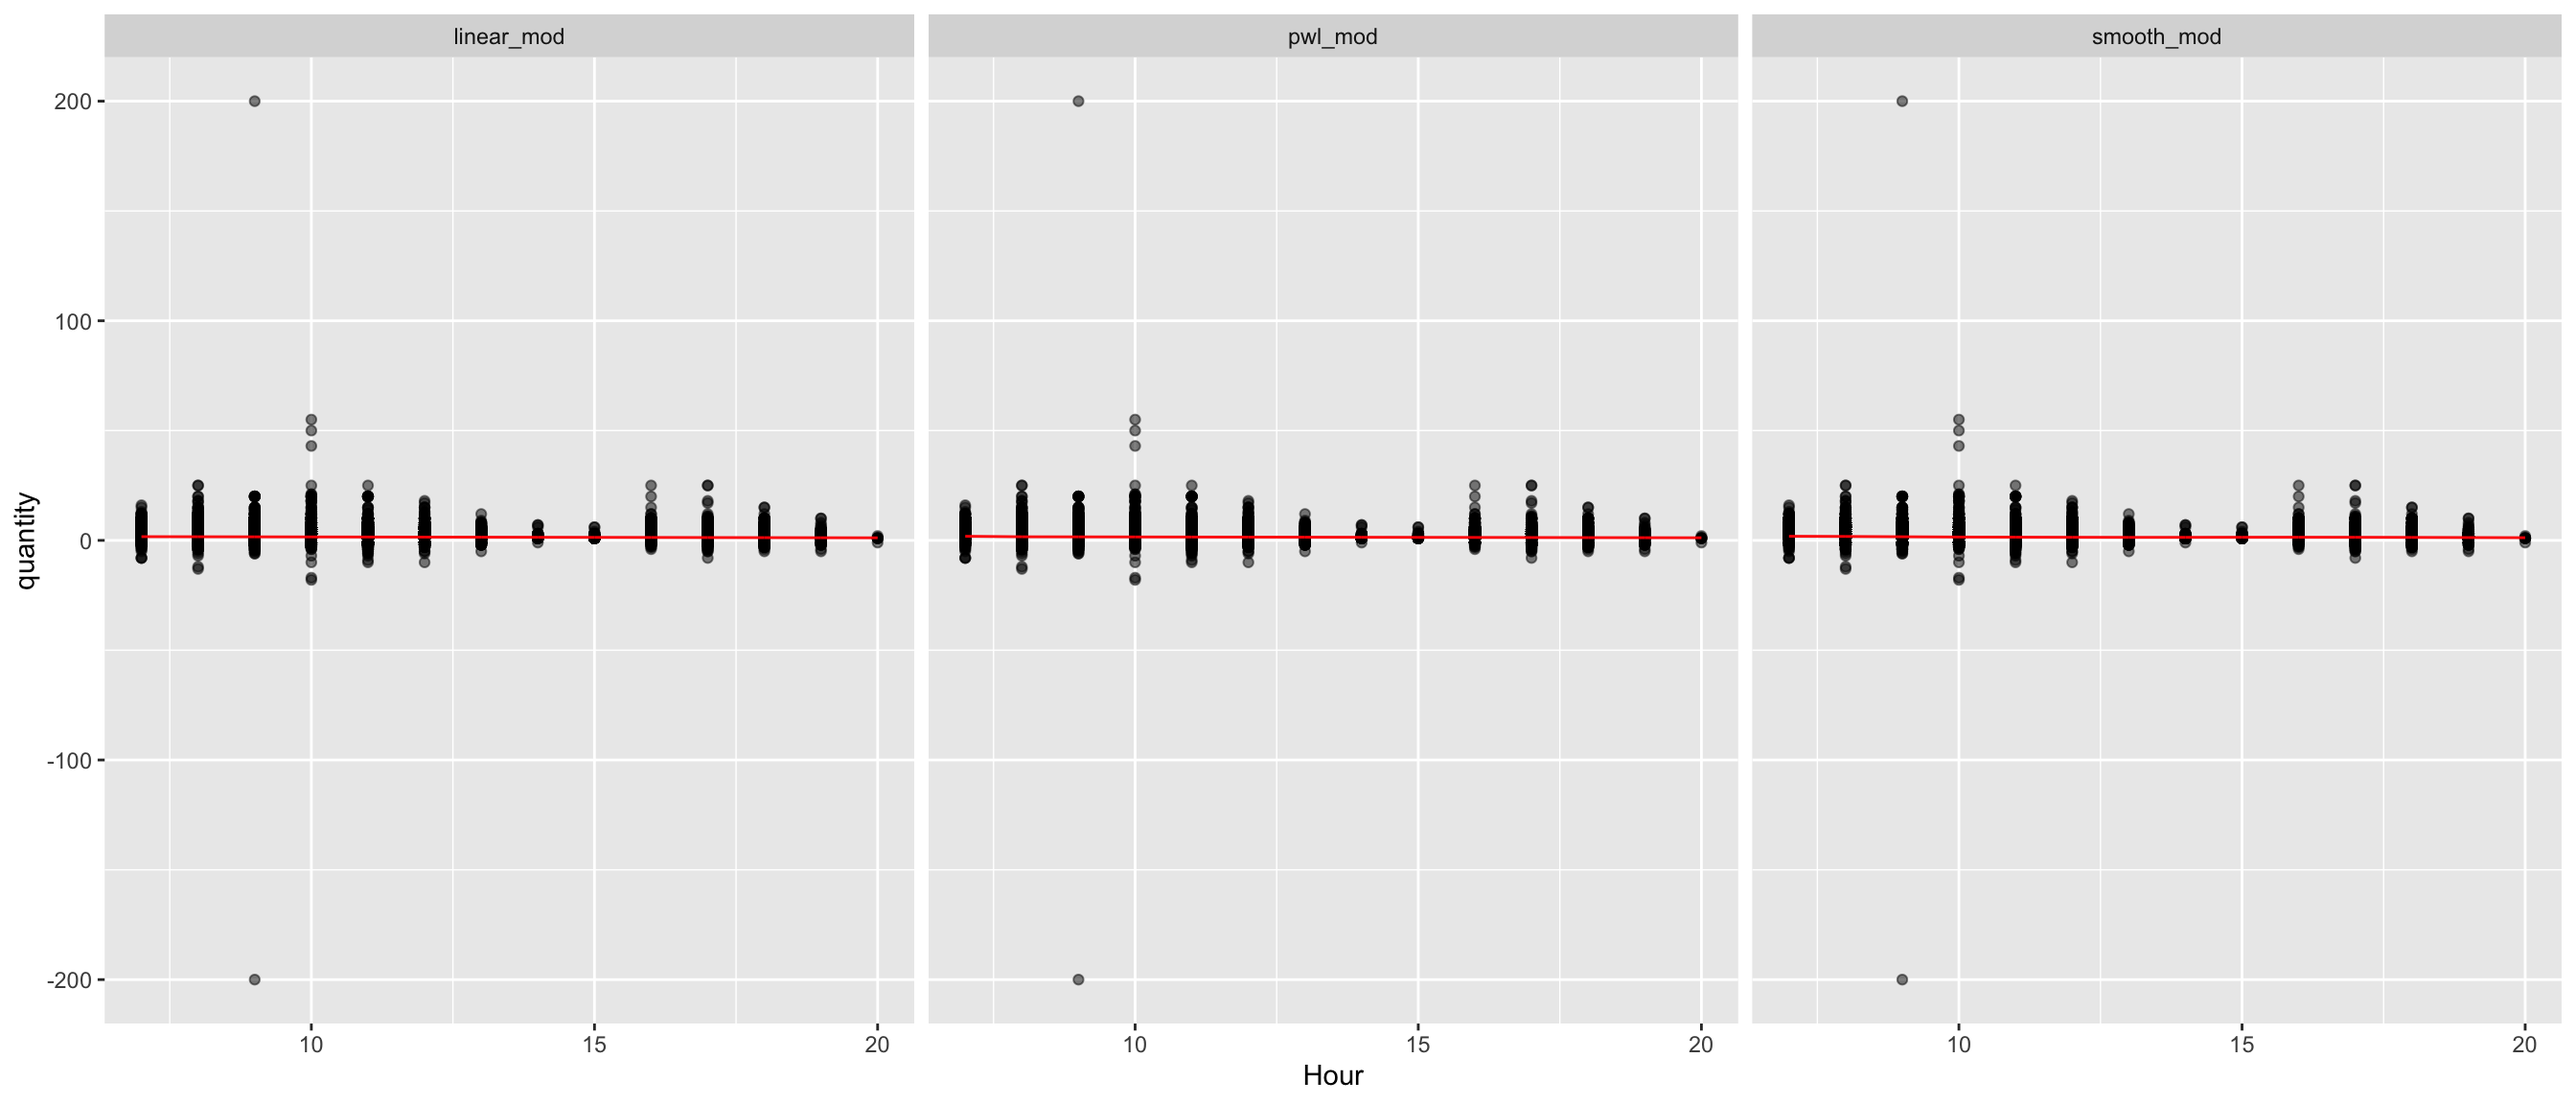
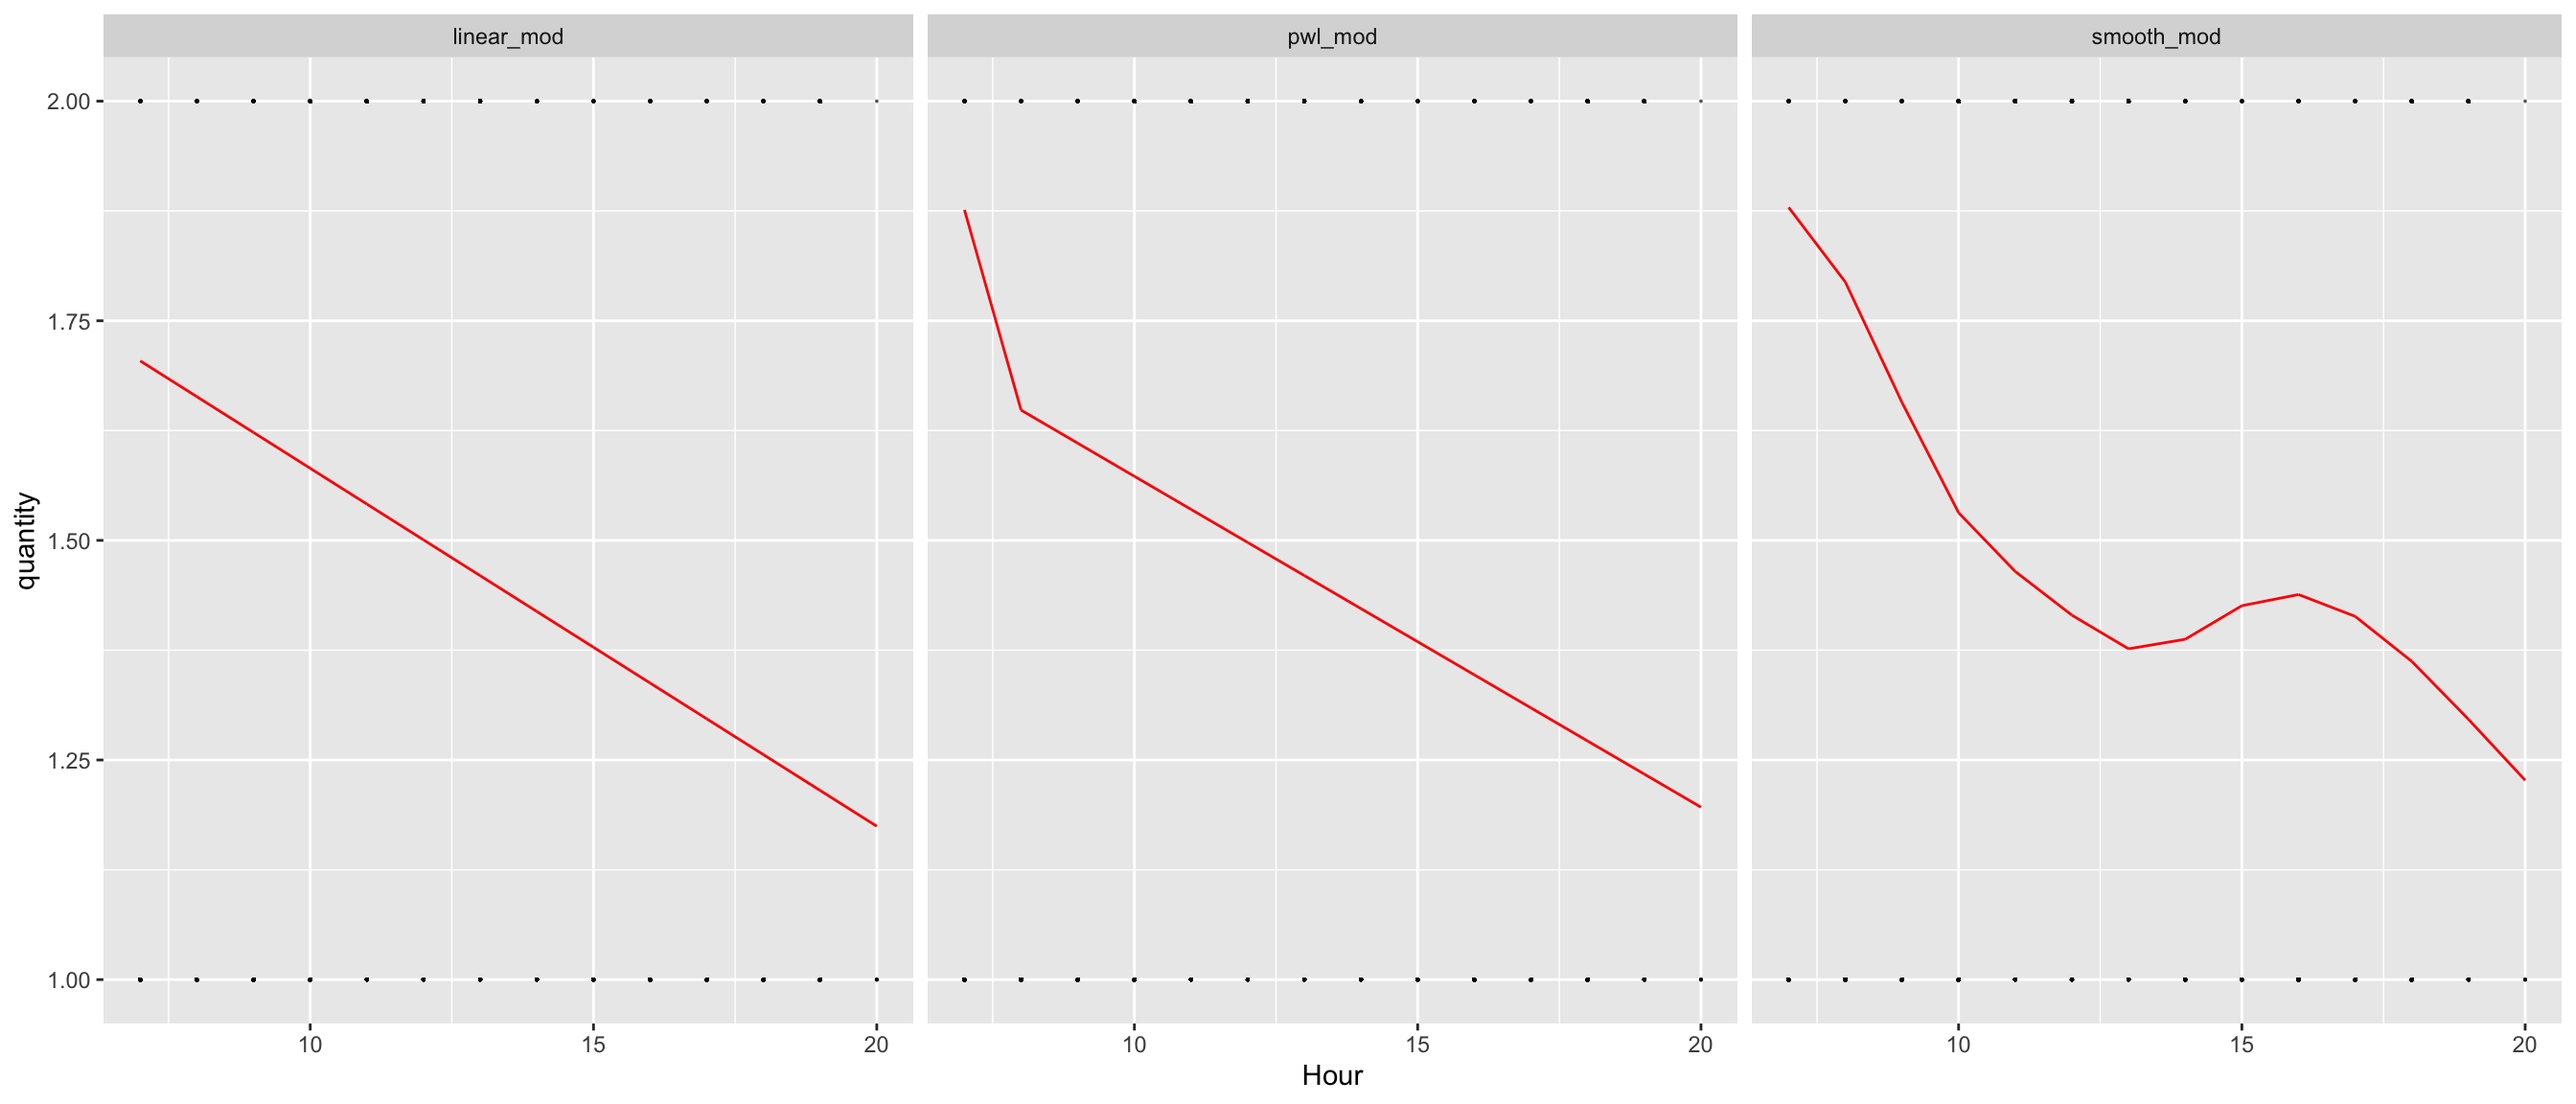
slightly changed the code and changed the graphs

diff --git a/statistical_analyses.html b/statistical_analyses.html
@@ -13,7 +13,7 @@
 
 <title>Statistical Analyses</title>
 
-<script src="site_libs/header-attrs-2.16/header-attrs.js"></script>
+<script src="site_libs/header-attrs-2.18/header-attrs.js"></script>
 <script src="site_libs/jquery-3.6.0/jquery-3.6.0.min.js"></script>
 <meta name="viewport" content="width=device-width, initial-scale=1" />
 <link href="site_libs/bootstrap-3.3.5/css/sandstone.min.css" rel="stylesheet" />
@@ -184,8 +184,8 @@ $(document).ready(function () {
   border-radius: 4px;
 }
 
-.tabset-dropdown > .nav-tabs > li.active:before {
-  content: "";
+.tabset-dropdown > .nav-tabs > li.active:before, .tabset-dropdown > .nav-tabs.nav-tabs-open:before {
+  content: "\e259";
   font-family: 'Glyphicons Halflings';
   display: inline-block;
   padding: 10px;
@@ -193,16 +193,9 @@ $(document).ready(function () {
 }
 
 .tabset-dropdown > .nav-tabs.nav-tabs-open > li.active:before {
-  content: "&#xe258;";
-  border: none;
-}
-
-.tabset-dropdown > .nav-tabs.nav-tabs-open:before {
-  content: "";
+  content: "\e258";
   font-family: 'Glyphicons Halflings';
-  display: inline-block;
-  padding: 10px;
-  border-right: 1px solid #ddd;
+  border: none;
 }
 
 .tabset-dropdown > .nav-tabs > li.active {
@@ -396,8 +389,11 @@ library(plotly)
 library(mgcv)
 library(moments)
 library(modelr)</code></pre>
-<p>Data input and cleaning</p>
-<pre class="r"><code>bakery_df =
+<div id="summary-of-packages" class="section level2">
+<h2>Summary of packages</h2>
+<p>tidyverse, lubridate, plotly, mgcv, moments, modelr</p>
+<pre class="r"><code># Data input and cleaning 
+bakery_df =
   read_csv(&quot;./Data/Bakery_sales.csv&quot;) %&gt;% 
   janitor::clean_names() %&gt;% 
   mutate(
@@ -409,8 +405,9 @@ library(modelr)</code></pre>
     ) %&gt;% 
   filter(product_name != &quot;.&quot;) %&gt;% 
   select(-article)</code></pre>
-<div id="anova" class="section level3">
-<h3>ANOVA</h3>
+</div>
+<div id="anova" class="section level2">
+<h2>ANOVA</h2>
 <p>ANOVA tests whether there is a difference in means of the groups at
 each level (each individual month) of the independent variable of peak
 months (Jun - Sep).</p>
@@ -451,21 +448,54 @@ anova_test_df =
   left_join(one_sales, two_sales, by = c(&quot;ID&quot;))
 
 
-one.way &lt;- aov(one_sales ~ two_sales, data = anova_test_df)
+one.way &lt;- aov(one_sales ~ two_sales, data = anova_test_df) %&gt;% 
+  broom::tidy() %&gt;% 
+  knitr::kable(digits = 2) 
 
-summary(one.way)</code></pre>
-<pre><code>##             Df   Sum Sq  Mean Sq F value  Pr(&gt;F)   
-## two_sales    1 74405983 74405983   196.6 0.00505 **
-## Residuals    2   756817   378409                   
-## ---
-## Signif. codes:  0 &#39;***&#39; 0.001 &#39;**&#39; 0.01 &#39;*&#39; 0.05 &#39;.&#39; 0.1 &#39; &#39; 1</code></pre>
-<p>The ANOVA test p-value is 0.00505 which is less than alpha level of
+one.way</code></pre>
+<table>
+<thead>
+<tr class="header">
+<th align="left">term</th>
+<th align="right">df</th>
+<th align="right">sumsq</th>
+<th align="right">meansq</th>
+<th align="right">statistic</th>
+<th align="right">p.value</th>
+</tr>
+</thead>
+<tbody>
+<tr class="odd">
+<td align="left">two_sales</td>
+<td align="right">1</td>
+<td align="right">74405982.9</td>
+<td align="right">74405982.9</td>
+<td align="right">196.63</td>
+<td align="right">0.01</td>
+</tr>
+<tr class="even">
+<td align="left">Residuals</td>
+<td align="right">2</td>
+<td align="right">756817.1</td>
+<td align="right">378408.5</td>
+<td align="right">NA</td>
+<td align="right">NA</td>
+</tr>
+</tbody>
+</table>
+<p>The ANOVA test p-value is 0.01 which is less than alpha level of
 0.05, so we reject the null hypothesis and conclude that the mean sales
 of peak months in 2021 is statistically significantly different from the
 mean sales of peak months in 2022.</p>
+<p>
+ 
+</p >
 </div>
-<div id="generalized-additive-model" class="section level3">
-<h3>Generalized Additive Model</h3>
+<div id="simple-linear-regression" class="section level2">
+<h2>Simple Linear Regression</h2>
+<p>We conduct a simple linear regression for croissant’s sale counts and
+when it’s being sold (hour of the day) and test the model using
+<code>Cross Validation</code>.</p>
 <p>Find the <em>rush hours</em> of a typical day:</p>
 <pre class="r"><code>bakery_df = 
   bakery_df %&gt;% 
@@ -507,49 +537,68 @@ function from 7 AM to 11 AM.</p>
 <p><img src="statistical_analyses_files/figure-html/unnamed-chunk-3-1.png" width="90%" /></p>
 <p>It looks like a monotonic linear relationship that we can take a
 further look at using simple linear regression model.</p>
-</div>
-<div
-id="simple-linear-regression-for-croissants-sale-counts-and-when-its-being-sold-hour-of-the-day-and-test-the-model-using-cross-validation"
-class="section level3">
-<h3>Simple Linear Regression for croissant’s sale counts and when it’s
-being sold (hour of the day) and test the model using Cross
-Validation</h3>
 <pre class="r"><code>slr_df = 
   bakery_df  %&gt;% 
   mutate(
-    hour_cp = (Hour &gt; 8) * (Hour - 8)
-    )
+    hour_cp = (Hour &gt; 8) * (Hour - 8))
 
-ggplot(slr_df, aes(x = Hour, y = quantity)) +
-  geom_point() + scale_x_continuous(breaks = seq(7, 11), limit = c(7, 11)) +
-  scale_y_continuous(limit = c(0,50)) </code></pre>
-<p><img src="statistical_analyses_files/figure-html/unnamed-chunk-4-1.png" width="90%" /></p>
-<pre class="r"><code>slr_reg = lm(quantity ~ Hour, slr_df)
+slr_reg = lm(quantity ~ Hour, slr_df)
 
 slr_reg %&gt;% 
-  broom::tidy()</code></pre>
-<pre><code>## # A tibble: 2 × 5
-##   term        estimate std.error statistic p.value
-##   &lt;chr&gt;          &lt;dbl&gt;     &lt;dbl&gt;     &lt;dbl&gt;   &lt;dbl&gt;
-## 1 (Intercept)   1.99    0.0109       182.        0
-## 2 Hour         -0.0407  0.000957     -42.6       0</code></pre>
+  broom::tidy() %&gt;% 
+  knitr::kable(digits = 2) </code></pre>
+<table>
+<thead>
+<tr class="header">
+<th align="left">term</th>
+<th align="right">estimate</th>
+<th align="right">std.error</th>
+<th align="right">statistic</th>
+<th align="right">p.value</th>
+</tr>
+</thead>
+<tbody>
+<tr class="odd">
+<td align="left">(Intercept)</td>
+<td align="right">1.99</td>
+<td align="right">0.01</td>
+<td align="right">182.09</td>
+<td align="right">0</td>
+</tr>
+<tr class="even">
+<td align="left">Hour</td>
+<td align="right">-0.04</td>
+<td align="right">0.00</td>
+<td align="right">-42.57</td>
+<td align="right">0</td>
+</tr>
+</tbody>
+</table>
 <p>The model is Sale count = 1.99 - 0.04 * Hour</p>
-<p>Examine cross validation of this simple linear regression model</p>
-<pre class="r"><code>linear_mod = lm(quantity ~ Hour, slr_df)
+<p>
+ 
+</p >
+<div id="cross-validation-of-simple-linear-regression-model"
+class="section level3">
+<h3>Cross validation of simple linear regression model</h3>
+<pre class="r"><code># created 3 models: linear, piecewise, and smooth models 
+linear_mod = lm(quantity ~ Hour, slr_df)
 pwl_mod    = lm(quantity ~ Hour + hour_cp, data = slr_df)
 smooth_mod = gam(quantity ~ s(Hour), data = slr_df)</code></pre>
 <pre class="r"><code>slr_df %&gt;% 
   gather_predictions(linear_mod, pwl_mod, smooth_mod) %&gt;% 
   mutate(model = fct_inorder(model)) %&gt;% 
   ggplot(aes(x = Hour, y = quantity)) + 
-  geom_point(alpha = .5) +
-  geom_line(aes(y = pred), color = &quot;red&quot;) + 
+  geom_point(alpha = .5, size = 0.05) +
+  geom_line(aes(y = pred), color = &quot;red&quot;) +
+  ylim(1, 2) +
   facet_grid(~model)</code></pre>
 <p><img src="statistical_analyses_files/figure-html/unnamed-chunk-6-1.png" width="90%" /></p>
 <p>The three models are very similar.</p>
 <p>Re-sample the dataset by <code>crossv_mc</code> and let’s see the
 rmse of each model</p>
-<pre class="r"><code>set.seed(2022)
+<pre class="r"><code># created a train model and test model; check rmse 
+set.seed(2022)
 cv_df =
   crossv_mc(slr_df, 100) %&gt;% 
   mutate(
@@ -565,7 +614,8 @@ cv_df =
   mutate(
     rmse_linear = map2_dbl(linear_mod, test, ~rmse(model = .x, data = .y)),
     rmse_pwl    = map2_dbl(pwl_mod, test, ~rmse(model = .x, data = .y)),
-    rmse_smooth = map2_dbl(smooth_mod, test, ~rmse(model = .x, data = .y)))</code></pre>
+    rmse_smooth = map2_dbl(smooth_mod, test, ~rmse(model = .x, data = .y))) %&gt;% 
+  select(rmse_linear, rmse_pwl, rmse_smooth)</code></pre>
 <p>Then plot the rmse graph</p>
 <pre class="r"><code>cv_df %&gt;% 
   select(starts_with(&quot;rmse&quot;)) %&gt;% 
@@ -721,6 +771,7 @@ bakery_df %&gt;%
 print(skewness(skew))</code></pre>
 <pre><code>##        date  total_sale 
 ## -0.01517941  1.20058066</code></pre>
+</div>
 </div>
 </div>
 
